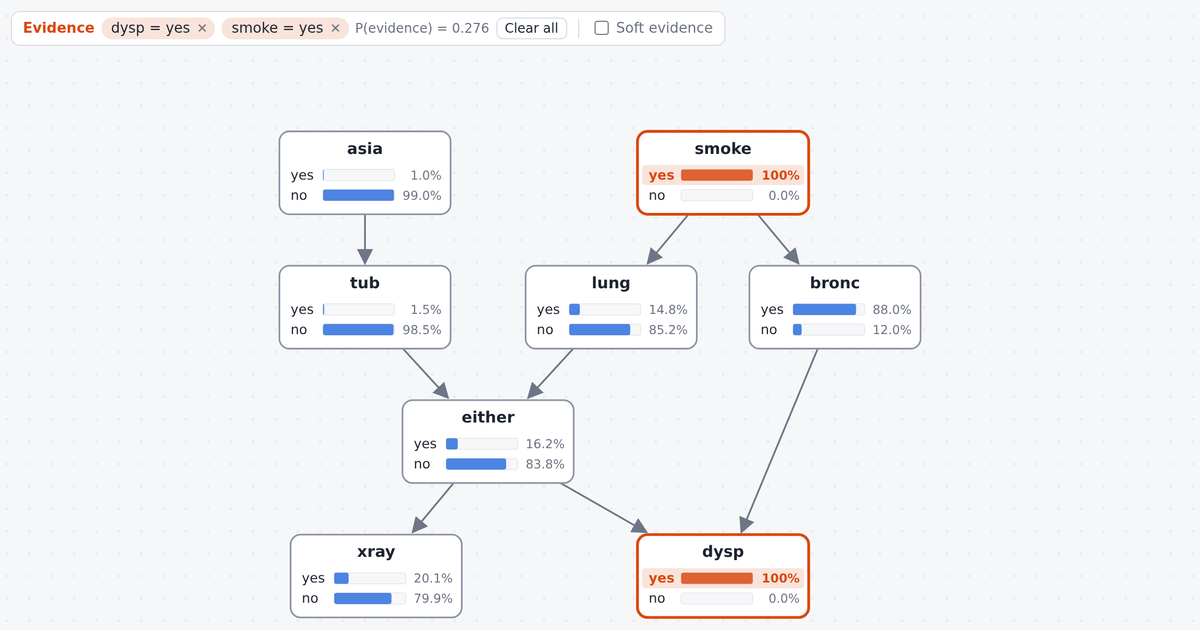
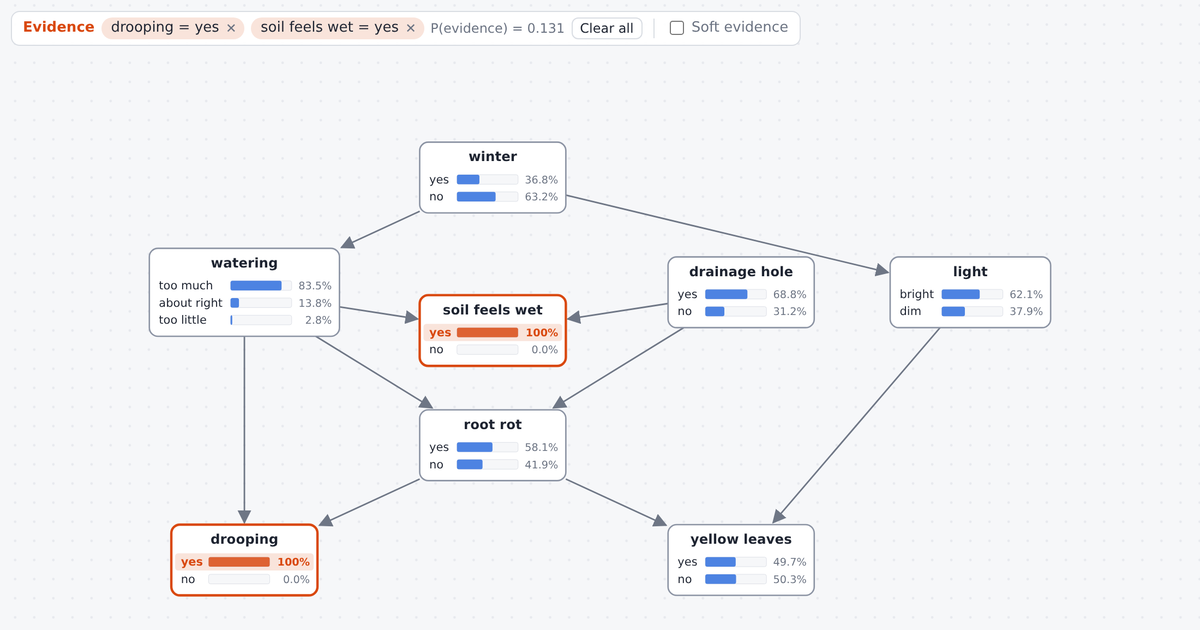
Wider houseplant demo layout; social preview image shows the houseplant demo
The preview has drooping and soil feels wet as evidence; compressed with zopflipng.

Amp-Thread-ID: https://ampcode.com/threads/T-01a1a10c-50ac-7589-9441-8613c98d7b44

diff --git a/js/demos.js b/js/demos.js
@@ -146,7 +146,7 @@ bn.cpt("yellow leaves")[{"root rot": "yes", "light": "bright"}] = [0.7, 0.3]
 bn.cpt("yellow leaves")[{"root rot": "yes", "light": "dim"}] = [0.8, 0.2]
 bn.cpt("yellow leaves")[{"root rot": "no", "light": "bright"}] = [0.05, 0.95]
 bn.cpt("yellow leaves")[{"root rot": "no", "light": "dim"}] = [0.35, 0.65]
-# bn-editor-layout: {"winter":[440,60],"watering":[240,190],"light":[800,190],"soil feels wet":[440,300],"drainage hole":[640,300],"root rot":[440,440],"drooping":[240,560],"yellow leaves":[640,560]}
+# bn-editor-layout: {"winter":[420,40],"watering":[160,160],"soil feels wet":[420,200],"drainage hole":[680,160],"light":[920,160],"root rot":[420,320],"drooping":[160,440],"yellow leaves":[680,440]}
 `;
 
   // The host never opens your door or the car's door. Set your choice and host opens as evidence:
